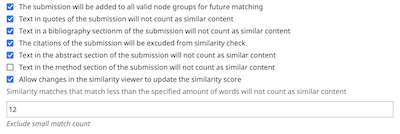
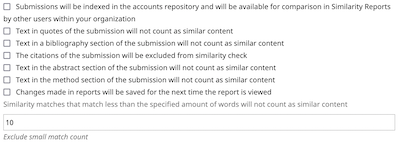
pkp/plagiarism#52 updated readme and similarity settings screenshot

Changed region(s): [[0.0, 0.0, 0.99, 0.9552]]

diff --git a/README.md b/README.md
@@ -25,13 +25,14 @@ This plugin permits automatic submission of uploaded manuscripts to the [iThenti
 
 There are several iThenticate similarity check settings that can be configured via the plugin.
 1. Similarity Check Options
-   * `addToIndex` -- The submission will be added to all valid node groups for future matching
+   * `addToIndex` -- Submissions will be indexed in the accounts repository and will be available for comparison in Similarity Reports by other users within your organization
    * `excludeQuotes` -- Text in quotes of the submission will not count as similar content
    * `excludeBibliography` -- Text in a bibliography section of the submission will not count as similar content
    * `excludeAbstract` -- Text in the abstract section of the submission will not count as similar content
    * `excludeMethods` -- Text in the method section of the submission will not count as similar content
-   * `excludeCitations` -- The citations of the submission will be excuded from similarity check
-   * `excludeSmallMatches` -- Similarity matches that match less than the specified number of words will not count as similar content
+   * `excludeCitations` -- The citations of the submission will be excluded from similarity check
+   * `excludeSmallMatches` -- Similarity matches that match less than the specified amount of words will not count as similar content
+   * `allowViewerUpdate` -- Changes made in reports will be saved for the next time the report is viewed
    * ![Available Similarity Check Options](images/similarity-check-settings.png)
 2. Each of this settings can also be configured at global or Journal/Press/Server level from the `config.inc.php` file.
 
